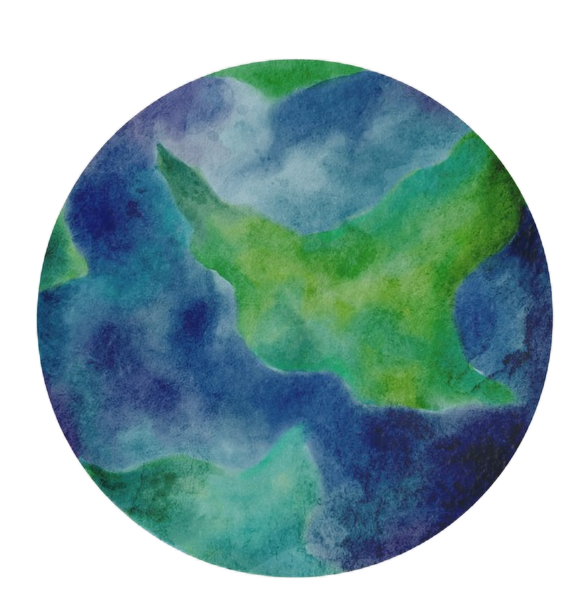
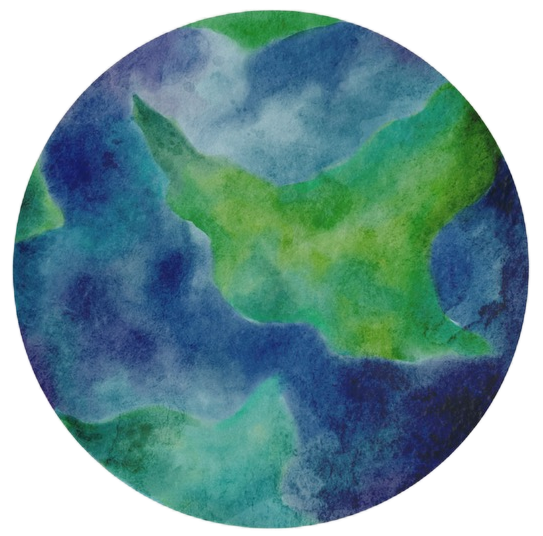
feat: planet backgrounds for each judge on carousel, updated planet images to sync with hifi

diff --git a/src/components/seasons/2026/blocks/judges/profile-card.tsx b/src/components/seasons/2026/blocks/judges/profile-card.tsx
@@ -1,8 +1,8 @@
 import { cn } from "@/lib/utils";
 import DOTImage from "@components/common/dot-image";
+import Image from "next/image";
 import { LinkedinIconStroke } from "@components/icons/linkedin";
 import { Judge } from "@components/seasons/2026/blocks/judges";
-import { Card, CardContent, CardHeader } from "@components/ui/card";
 import Link from "next/link";
 
 type Props = {
@@ -12,16 +12,53 @@ type Props = {
   isActive: boolean;
 };
 
-// Each judge gets a unique nebula accent color
-const nebulaColors = [
-  { glow: "rgba(0, 0, 255, 0.5)", ring: "#99b1f8", streak: "#97c2ff" },
-  { glow: "rgba(56, 189, 248, 0.5)", ring: "#38f8e5", streak: "#02c7a9" },
-  { glow: "rgba(200, 0, 186, 0.5)", ring: "#230351", streak: "#a90aff" },
-  { glow: "rgba(52, 211, 153, 0.5)", ring: "#34d399", streak: "#059669" },
-];
+// Accent colors per planet — glow, ring, streak all match each planet's colors
+const planetColors: Record<
+  number,
+  { glow: string; ring: string; streak: string }
+> = {
+  1: {
+    glow: "rgba(0, 200, 220, 0.5)",
+    ring: "#38d4e0",
+    streak: "#00c8d4",
+  }, // Teal/cyan (water planet)
+  2: {
+    glow: "rgba(210, 165, 100, 0.5)",
+    ring: "#d4a86a",
+    streak: "#c49550",
+  }, // Golden brown (Saturn-like)
+  3: {
+    glow: "rgba(180, 150, 110, 0.5)",
+    ring: "#c4a574",
+    streak: "#a88950",
+  }, // Light brown
+  4: {
+    glow: "rgba(200, 90, 50, 0.5)",
+    ring: "#e07848",
+    streak: "#c85a28",
+  }, // Burnt orange / rust
+  5: {
+    glow: "rgba(130, 180, 230, 0.5)",
+    ring: "#7eb8e6",
+    streak: "#5a9ed9",
+  }, // Light blue
+  6: {
+    glow: "rgba(235, 210, 80, 0.5)",
+    ring: "#e8c850",
+    streak: "#d4b020",
+  }, // Yellow
+};
+
+const PLANET_COUNT = 6;
 
 function ProfileCard({ profile, isInView, index, isActive }: Props) {
-  const color = nebulaColors[index % nebulaColors.length];
+  const planetNumber = (index % PLANET_COUNT) + 1;
+  const color = planetColors[planetNumber] ?? planetColors[1];
+  const planetSrc = `/images/seasons/2026/landing/judges/planets/${planetNumber}.png`;
+  const planetScale =
+    planetNumber === 1 ? 1.6 : planetNumber === 6 ? 2.4 : 1.5;
+  const planetOffset =
+    planetNumber === 6 ? "translate(20px, -20px)" : "translate(0, 0)";
 
   return (
     <div
@@ -32,62 +69,52 @@ function ProfileCard({ profile, isInView, index, isActive }: Props) {
       )}
       style={{ transitionDelay: `${index * 60}ms` }}
     >
-      {/* Outer glow halo — only on active */}
-      {isActive && (
-        <div
-          className="pointer-events-none absolute inset-0 rounded-full blur-3xl"
-          style={{
-            background: `radial-gradient(ellipse at center, ${color.glow} 0%, transparent 70%)`,
-            transform: "scale(1.4)",
-          }}
-        />
-      )}
-
-      <Card
+      <div
         className={cn(
-          "relative overflow-hidden border-0 bg-transparent transition-all duration-500 ease-out",
+          "relative overflow-visible transition-all duration-500 ease-out",
           isActive
-            ? "h-[460px] w-[320px] scale-100 shadow-2xl"
+            ? "h-[460px] w-[320px] scale-100"
             : "h-[340px] w-[260px] scale-90 opacity-50",
         )}
       >
-        {/* Glass card background */}
-        <div
-          className="absolute inset-0 rounded-2xl"
-          style={{
-            background: isActive
-              ? "linear-gradient(135deg, rgba(255,255,255,0.10) 0%, rgba(255,255,255,0.04) 100%)"
-              : "linear-gradient(135deg, rgba(255,255,255,0.05) 0%, rgba(255,255,255,0.02) 100%)",
-            backdropFilter: "blur(20px)",
-            border: `1px solid ${isActive ? `${color.ring}55` : "rgba(255,255,255,0.08)"}`,
-            borderRadius: "1rem",
-          }}
-        />
-
-        {/* Top accent streak */}
+        {/* Outer glow halo — centered behind planet, circular, planet-matched color; subtler on mobile */}
         {isActive && (
           <div
-            className="absolute top-0 right-8 left-8 h-[2px] rounded-full"
-            style={{
-              background: `linear-gradient(90deg, transparent, ${color.ring}, transparent)`,
-            }}
-          />
+            className="pointer-events-none absolute inset-0 flex items-center justify-center"
+            aria-hidden
+          >
+            <div
+              className="aspect-square w-[min(100%,320px)] rounded-full opacity-50 blur-2xl md:opacity-100 md:blur-3xl"
+              style={{
+                background: `radial-gradient(circle at center, ${color.glow} 0%, transparent 70%)`,
+                transform: "scale(2)",
+              }}
+            />
+          </div>
         )}
 
-        {/* Subtle starfield texture */}
+        {/* Planet as background — scaled up so planet is bigger, info stays same size */}
         <div
-          className="pointer-events-none absolute inset-0 opacity-20"
+          className="absolute inset-0 flex items-center justify-center"
           style={{
-            backgroundImage: `radial-gradient(circle, white 1px, transparent 1px)`,
-            backgroundSize: "30px 30px",
-            borderRadius: "1rem",
-            maskImage:
-              "radial-gradient(ellipse at center, black 30%, transparent 80%)",
+            transform: `${planetOffset} scale(${planetScale})`,
           }}
-        />
+          aria-hidden
+        >
+          <div className="relative h-full w-full">
+            <Image
+              src={planetSrc}
+              alt=""
+              fill
+              className="object-contain"
+              sizes="320px"
+              priority={index < 3}
+            />
+          </div>
+        </div>
 
-        {/* Planet / Portrait image */}
-        <CardHeader className="relative z-10 flex items-center justify-center pt-8 pb-0">
+        {/* Portrait */}
+        <div className="relative z-10 flex flex-col items-center pt-8 pb-0">
           <div
             className={cn(
               "relative overflow-hidden transition-all duration-500",
@@ -114,10 +141,10 @@ function ProfileCard({ profile, isInView, index, isActive }: Props) {
               className="object-cover"
             />
           </div>
-        </CardHeader>
+        </div>
 
         {/* Info */}
-        <CardContent
+        <div
           className={cn(
             "relative z-10 flex flex-col items-center gap-1 px-6 text-center transition-all duration-500",
             isActive ? "mt-5" : "mt-4",
@@ -180,7 +207,7 @@ function ProfileCard({ profile, isInView, index, isActive }: Props) {
               LinkedIn
             </Link>
           )}
-        </CardContent>
+        </div>
 
         {/* Bottom corner constellation dots */}
         {isActive && (
@@ -203,7 +230,7 @@ function ProfileCard({ profile, isInView, index, isActive }: Props) {
             />
           </>
         )}
-      </Card>
+      </div>
     </div>
   );
 }

diff --git a/src/components/seasons/2026/blocks/judges/index.tsx b/src/components/seasons/2026/blocks/judges/index.tsx
@@ -120,12 +120,13 @@ export default function IndexPage() {
   }, []);
 
   return (
-    <main className="flex min-h-screen items-center justify-center bg-(--blue) text-white">
-      <section
-        ref={sectionRef}
-        className="flex w-full flex-col items-center gap-0 px-4 py-4"
-      >
-        <h1 className="[font-family:var(--font-luxurious-script)] text-6xl font-normal text-white md:text-9xl xl:text-[7rem]">
+    <section
+      id="judges"
+      ref={sectionRef}
+      className="flex min-h-screen items-center justify-center overflow-x-hidden bg-(--blue) px-4 py-4 text-white md:overflow-x-visible"
+    >
+      <div className="container flex w-full flex-col items-center gap-0 overflow-x-hidden md:overflow-x-visible">
+        <h1 className="w-full text-left [font-family:var(--font-luxurious-script)] text-6xl font-normal text-white md:text-9xl xl:text-[7rem]">
           Judges
         </h1>
         <Carousel
@@ -138,16 +139,16 @@ export default function IndexPage() {
             api?.on("select", updateActiveIndex);
             updateActiveIndex();
           }}
-          className="-mt-8 w-full overflow-hidden"
+          className="-mt-8 w-full overflow-visible"
         >
-          <div className="relative">
-            <CarouselContent>
+          <div className="relative overflow-visible">
+            <CarouselContent allowOverflow>
               {judges.map((judge, index) => (
                 <CarouselItem
                   key={judge.name}
                   className="md:p1-0 flex basis-full justify-center py-4 md:basis-1/4"
                 >
-                  <div className="origin-center scale-75">
+                  <div className="origin-center scale-[0.55] md:scale-75">
                     <ProfileCard
                       profile={judge}
                       isInView={isInView}
@@ -163,7 +164,7 @@ export default function IndexPage() {
           <CarouselPrevious className="text-white-900 absolute top-1/2 left-10 z-20 size-12 -translate-y-1/2 rounded-full border-2 border-white/0 bg-white/0 opacity-100 shadow-2xl backdrop-blur-md hover:bg-white/50" />
           <CarouselNext className="text-white-900 absolute top-1/2 right-10 z-20 size-12 -translate-y-1/2 rounded-full border-2 border-white/0 bg-white/0 opacity-100 shadow-2xl backdrop-blur-md hover:bg-white/50" />
         </Carousel>
-      </section>
-    </main>
+      </div>
+    </section>
   );
 }

diff --git a/src/components/ui/carousel.tsx b/src/components/ui/carousel.tsx
@@ -132,13 +132,28 @@ function Carousel({
   );
 }
 
-function CarouselContent({ className, ...props }: React.ComponentProps<"div">) {
+function CarouselContent({
+  className,
+  allowOverflow,
+  allowOverflowBreakpoint,
+  ...props
+}: React.ComponentProps<"div"> & {
+  allowOverflow?: boolean;
+  allowOverflowBreakpoint?: "sm" | "md" | "lg";
+}) {
   const { carouselRef, orientation } = useCarousel();
+
+  const overflowClass =
+    allowOverflowBreakpoint != null
+      ? `overflow-hidden ${allowOverflowBreakpoint}:overflow-visible`
+      : allowOverflow
+        ? "overflow-visible"
+        : "overflow-hidden";
 
   return (
     <div
       ref={carouselRef}
-      className="overflow-hidden"
+      className={overflowClass}
       data-slot="carousel-content"
     >
       <div
